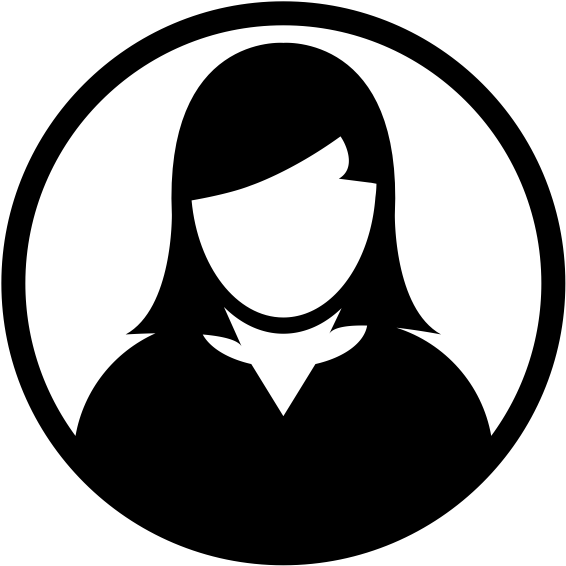
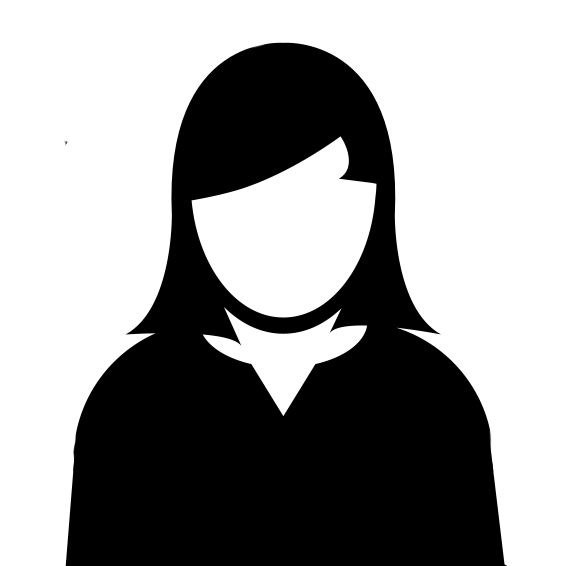
pull

Changed region(s): [[0.0, 0.0, 1.0, 1.0]]

diff --git a/application/views/Kepegawaian/V_ProfilPegawai.php b/application/views/Kepegawaian/V_ProfilPegawai.php
@@ -200,24 +200,22 @@
                   src="<?=base_url('fotopeg/')?><?=$profil_pegawai['fotopeg']?>" />  -->
 
                   <div class="foto_containerx">
-                            <!-- <img src="<?=$this->general_library->getProfilePicture()?>" style="height: 350px; width: 350px; margin-right: 1px;" 
-                            class="img-circle elevation-2 image-settings" alt="User Image"> -->
                             <img id="profile_pegawai" class="img-fluidx mb-2 b-lazy"
-                            data-src="<?php
-                                $path = './assets/fotopeg/'.$profil_pegawai['fotopeg'];
-                                // $path = '../siladen/assets/fotopeg/'.$profil_pegawai['fotopeg'];
-                                if($profil_pegawai['fotopeg']){
-                                if (file_exists($path)) {
-                                   $src = './assets/fotopeg/'.$profil_pegawai['fotopeg'];
-                                  //  $src = '../siladen/assets/fotopeg/'.$profil_pegawai['fotopeg'];
-                                } else {
-                                  $src = './assets/img/user.png';
-                                  // $src = '../siladen/assets/img/user.png';
-                                }
-                                } else {
-                                  $src = './assets/img/user.png';
-                                }
-                                echo base_url().$src;?>" /> 
+                           src="<?=$this->general_library->getProfilePicture()?>" style="border-radius: 5rem !important; object-fit: cover;" 
+                            <?php
+                                // $path = './assets/fotopeg/'.$profil_pegawai['fotopeg'];
+                                // if($profil_pegawai['fotopeg']){
+                                // if (file_exists($path)) {
+                                //    $src = './assets/fotopeg/'.$profil_pegawai['fotopeg'];
+                                // } else {
+                                //   $src = './assets/img/user.png';
+                                // }
+                                // } else {
+                                //   $src = './assets/img/user.png';
+                                // }
+                                // echo base_url().$src;?>
+                                
+                                /> 
                                 <div class="middle">
                                     <!-- <form id="form_profile_pict" action="<?=base_url('kepegawaian/C_Kepegawaian/updateProfilePict')?>" method="post" enctype="multipart/form-data">
                                         <input title="Ubah Foto Profil" class="form-control" accept="image/x-png,image/gif,image/jpeg" type="file" name="profilePict" id="profilePict">
